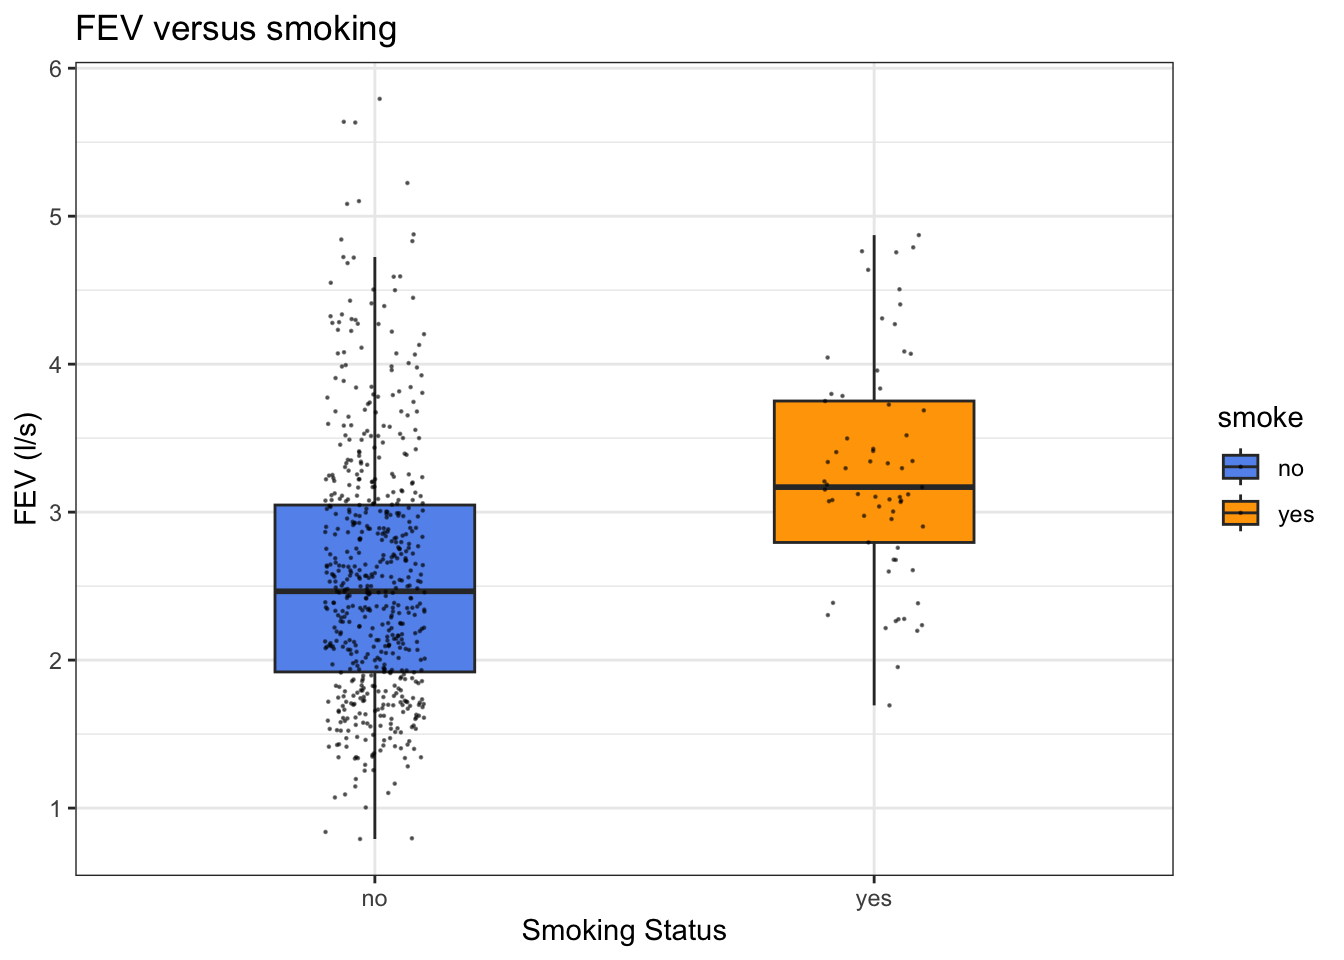
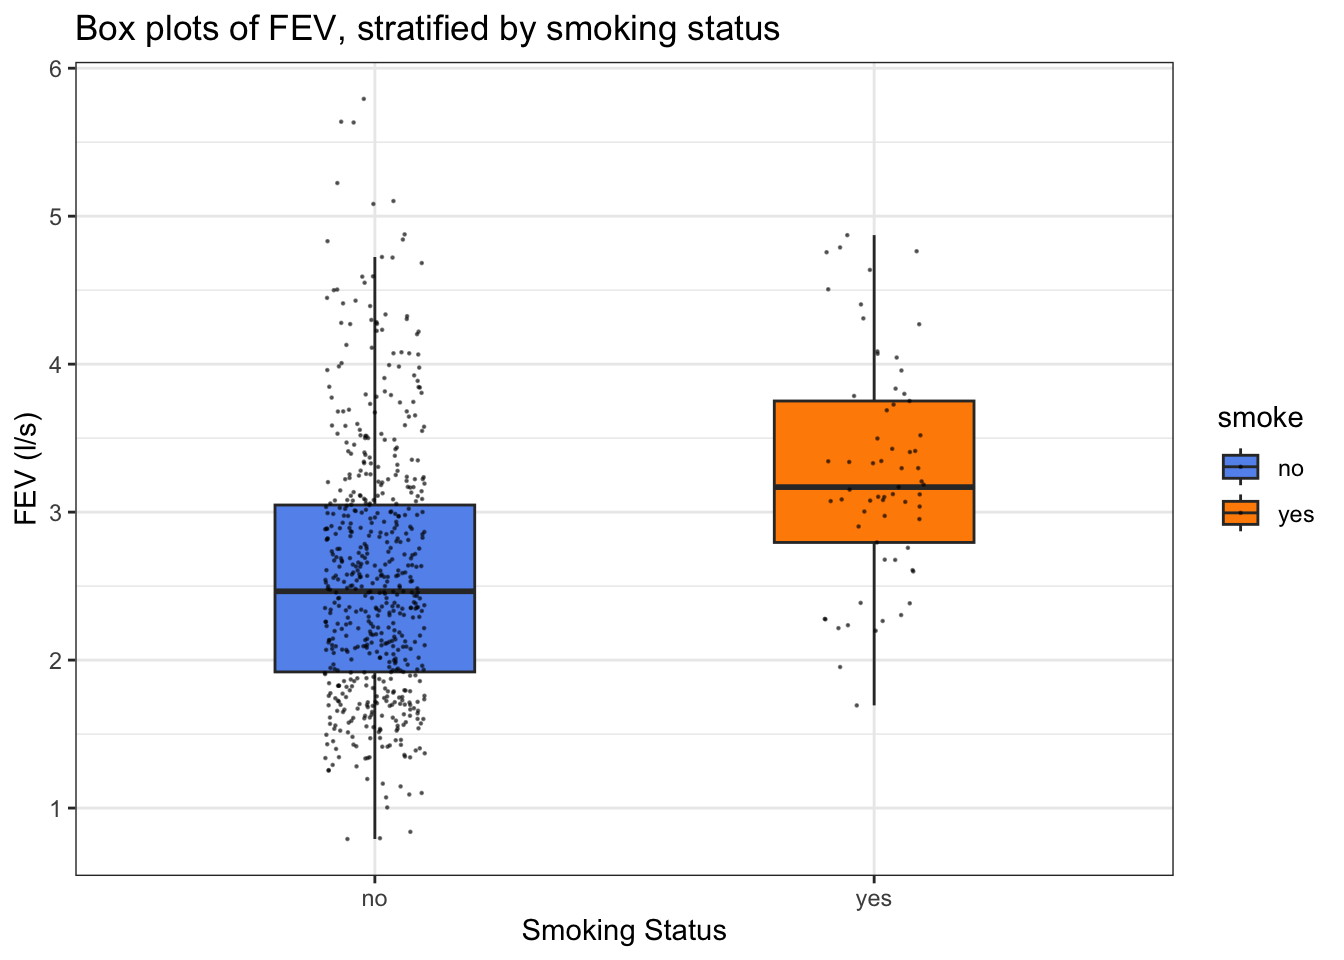
Updating Week 4 notes

diff --git a/content/notes/supp-a06-solution.html b/content/notes/supp-a06-solution.html
@@ -14,52 +14,83 @@ output: html_document
 library(dplyr)
 library(ggplot2)
 
-fev_tbl &lt;- as_tibble(fev) %&gt;% mutate(across(sex:smoke, ~ as.factor(.x)))
-
-fev_tbl &lt;- fev_tbl %&gt;% mutate(height = height*2.54) %&gt;% 
-  rename(height_cm = height)</code></pre>
+fev_tbl &lt;- as_tibble(fev) %&gt;% mutate(across(sex:smoke, ~ as.factor(.x)))</code></pre>
 <p>Last week, we found that the mean FEV in the smoking group was substantially higher than the average FEV in the non-smoking group. That is, the smokers appear to have <em>better</em> lung function than the non-smokers.</p>
-<p>We also had a theory as to why: the association between FEV and smoking status may be confounded by age/size, as bigger lungs can exhale more air (all else equal) than smaller lungs.</p>
+<p>We also had a theory as to why: the association between FEV and smoking status may be confounded, eg. by age/size.</p>
 </div>
-<div id="smoking-and-lung-function-a-slightly-more-nuanced-look" class="section level2">
-<h2>Smoking and lung function: a slightly more nuanced look</h2>
-<p>Once you are done each of these exercises, compare your plots with a partner or other members of a small group. Discuss the rationale behind your plotting choices and key pieces of information you think a viewer should take away from the plots.</p>
+<div id="smoking-and-fev-unadjusted" class="section level2">
+<h2>Smoking and FEV (unadjusted)</h2>
 <div id="exercise-1" class="section level3">
 <h3>Exercise 1</h3>
-<p>Use plot(s) to compare the distribution of FEV in the smoking group and the distribution of FEV in the non-smoking group.</p>
+<p>Now that we have plotting tools, let’s make a plot that compares the FEV of smokers to the FEV of non-smokers.</p>
 <pre class="r"><code>ggplot(fev_tbl, aes(x=smoke,y=fev, fill=smoke)) +
   geom_boxplot(outlier.shape=NA, width=0.4) + 
   geom_jitter(width=0.1, size=0.15, alpha=0.5)+
-  scale_fill_manual(values=c(&quot;cornflowerblue&quot;,&quot;orange&quot;)) + 
-  ggtitle(&quot;FEV versus smoking&quot;) +
+  scale_fill_manual(values=c(&quot;cornflowerblue&quot;,&quot;darkorange&quot;)) + 
+  ggtitle(&quot;Box plots of FEV, stratified by smoking status&quot;) +
   ylab(&quot;FEV (l/s)&quot;) +
   xlab(&quot;Smoking Status&quot;) + 
   theme_bw()</code></pre>
 <p><img src="/notes/supp-a06-solution_files/figure-html/unnamed-chunk-2-1.png" width="672" /></p>
+<p>This broadly tells the same story as the summaries we calculated last week, but conveys more information and is more visually engaging.</p>
 </div>
-<div id="exercise-2" class="section level3">
-<h3>Exercise 2</h3>
-<p>Use plot(s) to compare the distribution of FEV in smokers and the distribution of FEV in non-smokers at different ages.</p>
-<pre class="r"><code>ggplot(fev_tbl, aes(x=as.factor(age),y=fev, fill=smoke)) +
-  geom_boxplot() + 
-  scale_fill_manual(values=c(&quot;cornflowerblue&quot;,&quot;orange&quot;))  + 
-  ggtitle(&quot;FEV versus smoking by age&quot;) +
-  ylab(&quot;FEV (l/s)&quot;) +
-  xlab(&quot;Age (years)&quot;) + 
-  theme_bw()</code></pre>
-<p><img src="/notes/supp-a06-solution_files/figure-html/unnamed-chunk-3-1.png" width="672" /></p>
 </div>
+<div id="informating-gathering-what-might-we-want-to-adjust-for" class="section level2">
+<h2>Informating gathering: what might we want to adjust for?</h2>
+<p>Let’s do some digging to see if there are other variables that we would like to adjust for, when comparing the FEV of smokers to non-smokers.</p>
 <div id="exercise-3" class="section level3">
 <h3>Exercise 3</h3>
-<p>Use plot(s) to compare the distribution of FEV in smokers and the distribution of FEV in non-smokers at different ages and genders.</p>
-<pre class="r"><code>ggplot(fev_tbl, aes(x=as.factor(age),y=fev, fill=smoke)) +
-  geom_boxplot() + 
-  scale_fill_manual(values=c(&quot;cornflowerblue&quot;,&quot;orange&quot;))  + 
-  ggtitle(&quot;FEV versus smoking by age and gender&quot;) +
-  ylab(&quot;FEV (l/s)&quot;) +
-  xlab(&quot;Age (years)&quot;) + 
-  theme_bw() + 
-  facet_grid(rows=vars(sex))</code></pre>
+<p>Last week, we found that the youngest patient who smokes is 9, suggesting that there is a difference in the age distribution among smokers and non-smokers. Make a plot that compares these two distributions.</p>
+<pre class="r"><code>ggplot(fev_tbl, aes(fill=smoke)) + 
+  geom_bar(aes(x = age, y = after_stat(prop))) + 
+  facet_wrap(~smoke) +
+  scale_fill_manual(values=c(&quot;cornflowerblue&quot;,&quot;orange&quot;)) + 
+  ggtitle(&quot;Histograms of age, stratified by smoking status&quot;) +
+  xlab(&quot;Age&quot;) + 
+  ylab(&quot;Proportion&quot;) + 
+  theme_bw()</code></pre>
+<p><img src="/notes/supp-a06-solution_files/figure-html/unnamed-chunk-3-1.png" width="672" /></p>
+<p>Again, we see that the smokers are overall older than the non-smokers.</p>
+</div>
+<div id="exercise-4" class="section level3">
+<h3>Exercise 4</h3>
+<p>We think that age should be related to height, which in turn should be related to FEV. Let’s investigate that more systematically now with plotting.</p>
+<p>First, make a plot with two panels: one that has a scatterplot of height versus age for the female patients, and one that has a scatterplot of height versus age for the male patients.</p>
+<pre class="r"><code>ggplot(fev_tbl, aes(x = age, y = height, colour=sex)) + 
+  geom_jitter(width=0.2, alpha = 0.75) + 
+  scale_colour_manual(values=c(&quot;cornflowerblue&quot;,&quot;darkorange&quot;)) + 
+  facet_wrap(~sex) + 
+  ggtitle(&quot;Height versus age, stratified by sex&quot;) +
+  xlab(&quot;Age&quot;) + 
+  ylab(&quot;Proportion&quot;) + 
+  theme_bw()</code></pre>
 <p><img src="/notes/supp-a06-solution_files/figure-html/unnamed-chunk-4-1.png" width="672" /></p>
+<p>We see that the within-sex trend is similar: height is linear-ish at younger ages, and flat-ish at older ages. Boys wind up taller at older ages.</p>
+<p>Then, make a scatterplot of FEV versus height.</p>
+<pre class="r"><code>ggplot(fev_tbl, aes(x = height, y = fev)) + 
+  geom_jitter(width=0.2, alpha = 0.75) + 
+  ggtitle(&quot;FEV versus height&quot;) +
+  ylab(&quot;FEV (l/s)&quot;) +
+  xlab(&quot;Height (inches)&quot;) + 
+  theme_bw()</code></pre>
+<p><img src="/notes/supp-a06-solution_files/figure-html/unnamed-chunk-5-1.png" width="672" /></p>
+<p>We see that taller participants generally have higher FEV.</p>
+</div>
+</div>
+<div id="smoking-and-fev-adjusted-for-height" class="section level2">
+<h2>Smoking and FEV, adjusted for height</h2>
+<p>Now that we know that the smokers are older and bigger and have higher FEV, let’s look at the relationship between FEV and smoking status <em>adjusted</em> for height.</p>
+<div id="exercise-5" class="section level3">
+<h3>Exercise 5</h3>
+<p>Make a scatterplot of FEV versus height, with points coloured by smoking status.</p>
+<pre class="r"><code>ggplot(fev_tbl, aes(x = height, y = fev, colour=smoke)) + 
+  geom_jitter(width=0.2, alpha = 0.75) + 
+  scale_colour_manual(values=c(&quot;cornflowerblue&quot;,&quot;darkorange&quot;)) + 
+  ggtitle(&quot;FEV versus height, stratified by smoking status&quot;) +
+  ylab(&quot;FEV (l/s)&quot;) +
+  xlab(&quot;Height (inches)&quot;) + 
+  theme_bw()</code></pre>
+<p><img src="/notes/supp-a06-solution_files/figure-html/unnamed-chunk-6-1.png" width="672" /></p>
+<p>Based on this plot, it seems like the FEV of smokers and non-smokers <em>of the same height</em> is pretty similar.</p>
 </div>
 </div>

diff --git a/content/notes/supp-a06.html b/content/notes/supp-a06.html
@@ -14,29 +14,46 @@ output: html_document
 library(dplyr)
 library(ggplot2)
 
-fev_tbl &lt;- as_tibble(fev) %&gt;% mutate(across(sex:smoke, ~ as.factor(.x)))
-
-fev_tbl &lt;- fev_tbl %&gt;% mutate(height = height*2.54) %&gt;% 
-  rename(height_cm = height)</code></pre>
+fev_tbl &lt;- as_tibble(fev) %&gt;% mutate(across(sex:smoke, ~ as.factor(.x)))</code></pre>
 <p>Last week, we found that the mean FEV in the smoking group was substantially higher than the average FEV in the non-smoking group. That is, the smokers appear to have <em>better</em> lung function than the non-smokers.</p>
-<p>We also had a theory as to why: the association between FEV and smoking status may be confounded by age/size, as bigger lungs can exhale more air (all else equal) than smaller lungs.</p>
+<p>We also had a theory as to why: the association between FEV and smoking status may be confounded, eg. by age/size.</p>
 </div>
-<div id="smoking-and-lung-function-a-slightly-more-nuanced-look" class="section level2">
-<h2>Smoking and lung function: a slightly more nuanced look</h2>
-<p>Once you are done each of these exercises, compare your plots with a partner or other members of a small group. Discuss the rationale behind your plotting choices and key pieces of information you think a viewer should take away from the plots.</p>
+<div id="smoking-and-fev-unadjusted" class="section level2">
+<h2>Smoking and FEV (unadjusted)</h2>
 <div id="exercise-1" class="section level3">
 <h3>Exercise 1</h3>
-<p>Use plot(s) to compare the distribution of FEV in the smoking group and the distribution of FEV in the non-smoking group.</p>
-<pre class="r"><code># FILL IN HERE </code></pre>
+<p>Now that we have plotting tools, let’s make a plot that compares the FEV of smokers to the FEV of non-smokers.</p>
+<pre class="r"><code># FILL IN HERE</code></pre>
+<p>This broadly tells the same story as the summaries we calculated last week, but conveys more information and is more visually engaging.</p>
 </div>
-<div id="exercise-2" class="section level3">
-<h3>Exercise 2</h3>
-<p>Use plot(s) to compare the distribution of FEV in smokers and the distribution of FEV in non-smokers at different ages.</p>
-<pre class="r"><code># FILL IN HERE </code></pre>
 </div>
+<div id="searching-for-potential-confounders" class="section level2">
+<h2>Searching for potential confounders</h2>
+<p>Let’s do some digging to see if we can root out some potential confounders.</p>
 <div id="exercise-3" class="section level3">
 <h3>Exercise 3</h3>
-<p>Use plot(s) to compare the distribution of FEV in smokers and the distribution of FEV in non-smokers at different ages and genders.</p>
-<pre class="r"><code># FILL IN HERE </code></pre>
+<p>Last week, we found that the youngest patient who smokes is 9, suggesting that there is a difference in the age distribution among smokers and non-smokers. Make a plot that compares these two distributions.</p>
+<pre class="r"><code># FILL IN HERE</code></pre>
+<p>Again, we see that the smokers are overall older than the non-smokers.</p>
+</div>
+<div id="exercise-4" class="section level3">
+<h3>Exercise 4</h3>
+<p>We think that age should be related to height, which in turn should be related to FEV. Let’s investigate that more systematically now with plotting.</p>
+<p>First, make a plot with two panels: one that has a scatterplot of height versus age for the female patients, and one that has a scatterplot of height versus age for the male patients.</p>
+<pre class="r"><code># FILL IN HERE</code></pre>
+<p>We see that the within-sex trend is similar: height is linear-ish at younger ages, and flat-ish at older ages. Boys wind up taller at older ages.</p>
+<p>Then, make a scatterplot of FEV versus height.</p>
+<pre class="r"><code># FILL IN HERE</code></pre>
+<p>We see that taller participants generally have higher FEV.</p>
+</div>
+</div>
+<div id="smoking-and-lung-function-a-more-nuanced-look" class="section level2">
+<h2>Smoking and lung function: a more nuanced look</h2>
+<p>Now that we know that the smokers are older and bigger and have higher FEV, let’s look at the relationship between FEV and smoking status <em>adjusted</em> for height.</p>
+<div id="exercise-5" class="section level3">
+<h3>Exercise 5</h3>
+<p>Make a scatterplot of FEV versus height, with points coloured by smoking status.</p>
+<pre class="r"><code># FILL IN HERE</code></pre>
+<p>Based on this plot, it seems like the FEV of smokers and non-smokers <em>of the same height</em> is is pretty similar.</p>
 </div>
 </div>
